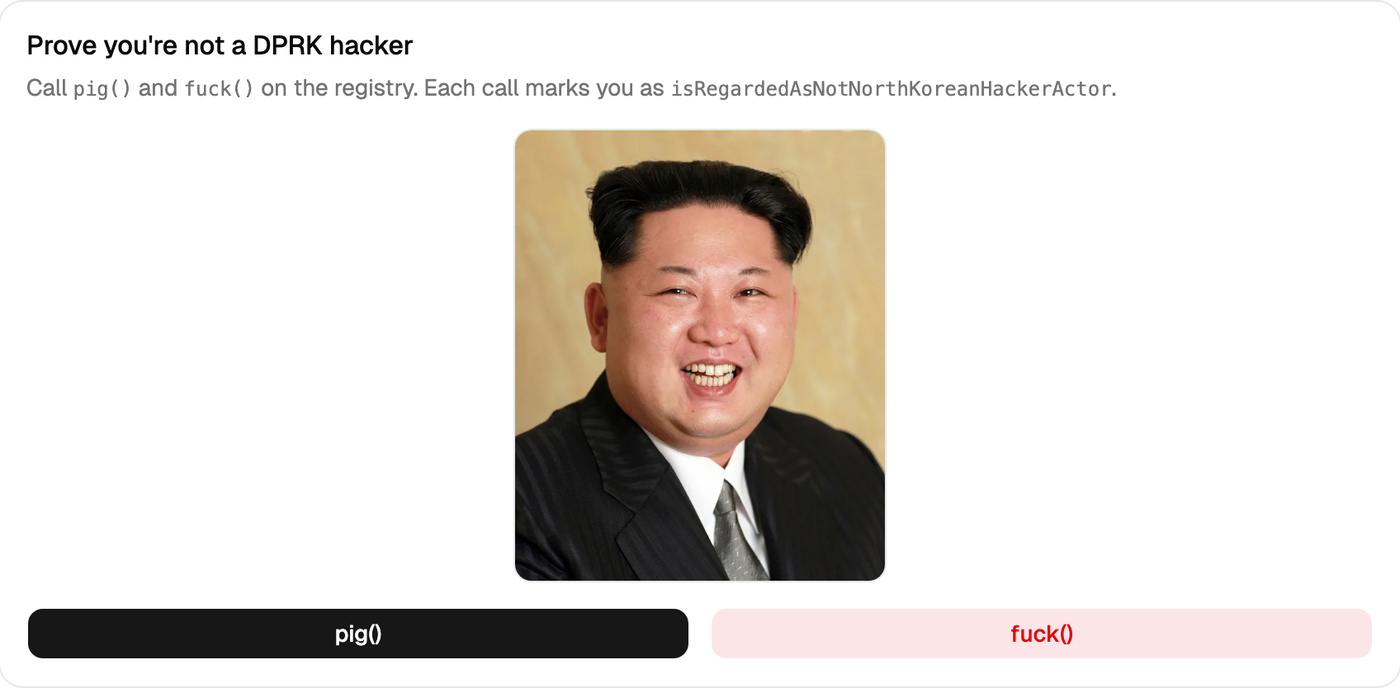
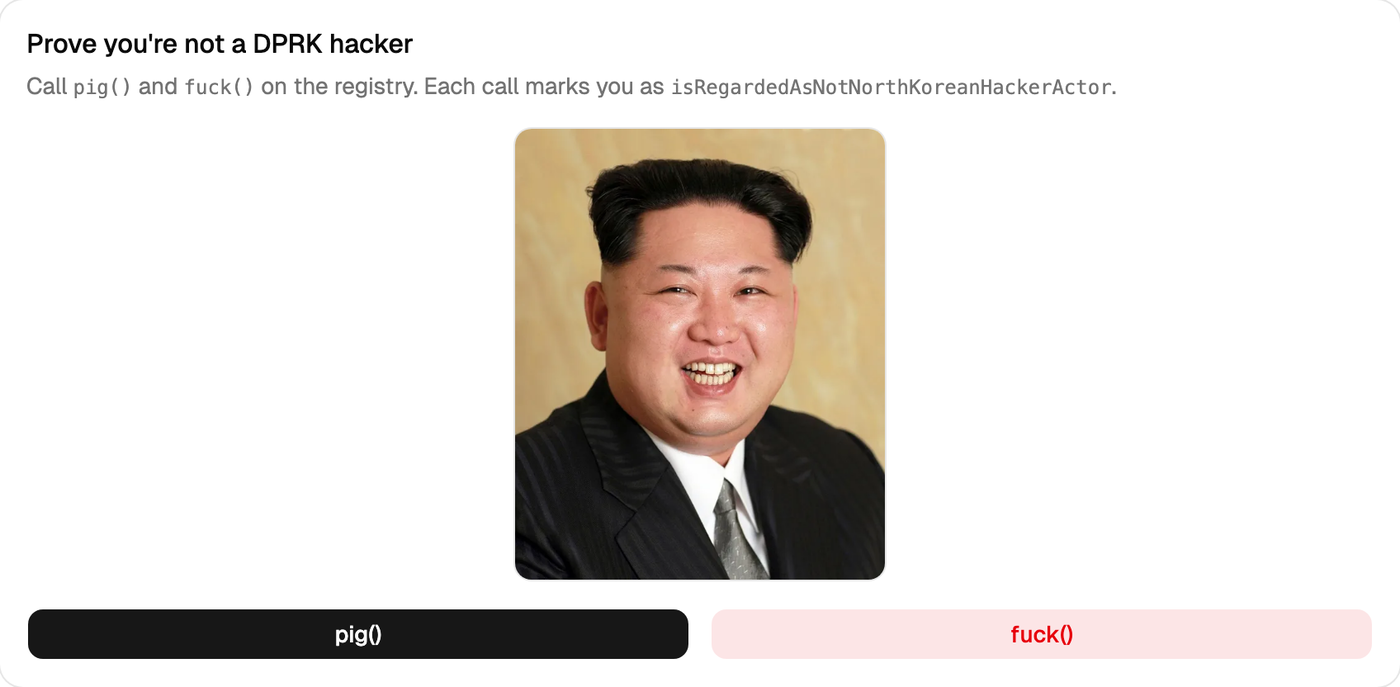
Top bar with repo + contract, supersize the H1
- Add a sub-nav above the hero showing the GitHub repo
  (guzus/fuck-kim-jong-un, inline Octocat SVG) and the contract
  address (linking to Etherscan, with ExternalLink glyph). Both
  lines sit in a single flex row that wraps on narrow screens.
  The two things a visitor most wants to click are now one glance
  away, no scrolling required.
- Supersize the hero typography. The DPRK.FUN wordmark jumps to
  text-5xl / sm:text-6xl / lg:text-7xl with a tighter leading, and
  "Lazarus Checker" becomes a secondary line at text-3xl / 4xl / 5xl
  under it. Description bumped to text-base / lg for matching weight.
  Section padding trimmed py-10/16 → py-6/10 so the top bar + H1
  don't push the main content below the fold.

diff --git a/frontend/src/App.tsx b/frontend/src/App.tsx
@@ -1,3 +1,5 @@
+import { ExternalLink } from "lucide-react";
+
 import { ActionCard } from "@/components/action-card";
 import { ConnectWallet } from "@/components/connect-wallet";
 import { GlobalStats } from "@/components/global-stats";
@@ -7,25 +9,68 @@ import { Toaster } from "@/components/ui/sonner";
 import { Providers } from "@/providers";
 import { KIM_JONG_UN_ADDRESS } from "@/lib/contract";
 
+const REPO_URL = "https://github.com/guzus/fuck-kim-jong-un";
+
+function GithubIcon({ className }: { className?: string }) {
+  return (
+    <svg viewBox="0 0 16 16" className={className} aria-hidden="true" fill="currentColor">
+      <path
+        fillRule="evenodd"
+        clipRule="evenodd"
+        d="M8 0C3.58 0 0 3.58 0 8c0 3.54 2.29 6.53 5.47 7.59.4.07.55-.17.55-.38 0-.19-.01-.82-.01-1.49-2.01.37-2.53-.49-2.69-.94-.09-.23-.48-.94-.82-1.13-.28-.15-.68-.52-.01-.53.63-.01 1.08.58 1.23.82.72 1.21 1.87.87 2.33.66.07-.52.28-.87.51-1.07-1.78-.2-3.64-.89-3.64-3.95 0-.87.31-1.59.82-2.15-.08-.2-.36-1.02.08-2.12 0 0 .67-.21 2.2.82a7.6 7.6 0 0 1 4 0c1.53-1.04 2.2-.82 2.2-.82.44 1.1.16 1.92.08 2.12.51.56.82 1.27.82 2.15 0 3.07-1.87 3.75-3.65 3.95.29.25.54.73.54 1.48 0 1.07-.01 1.93-.01 2.2 0 .21.15.46.55.38A8.01 8.01 0 0 0 16 8c0-4.42-3.58-8-8-8Z"
+      />
+    </svg>
+  );
+}
+
+function TopBar() {
+  return (
+    <div className="flex flex-wrap items-center justify-between gap-3 text-xs text-muted-foreground">
+      <a
+        href={REPO_URL}
+        target="_blank"
+        rel="noreferrer"
+        className="inline-flex items-center gap-2 hover:text-foreground transition-colors"
+      >
+        <GithubIcon className="size-4" />
+        <span className="font-mono">guzus/fuck-kim-jong-un</span>
+      </a>
+      <a
+        href={`https://etherscan.io/address/${KIM_JONG_UN_ADDRESS}`}
+        target="_blank"
+        rel="noreferrer"
+        className="inline-flex items-center gap-2 hover:text-foreground transition-colors"
+      >
+        <span className="hidden sm:inline text-[10px] uppercase tracking-widest">Contract</span>
+        <span className="font-mono">{KIM_JONG_UN_ADDRESS}</span>
+        <ExternalLink className="size-3" />
+      </a>
+    </div>
+  );
+}
+
 function App() {
   return (
     <Providers>
       <main className="min-h-svh w-full bg-background text-foreground">
-        <div className="mx-auto w-full max-w-4xl px-6 py-10 sm:py-16 flex flex-col gap-8">
+        <div className="mx-auto w-full max-w-4xl px-6 py-6 sm:py-10 flex flex-col gap-8">
+          <TopBar />
           <header className="flex flex-col sm:flex-row sm:items-start sm:justify-between gap-4">
-            <div className="flex flex-col gap-2">
-              <h1 className="font-heading text-3xl sm:text-4xl font-semibold tracking-tight">
+            <div className="flex flex-col gap-3">
+              <h1 className="font-heading text-5xl sm:text-6xl lg:text-7xl font-bold tracking-tight leading-[1.05]">
                 <span className="text-red-600 dark:text-red-500">DPRK</span>
                 <span className="text-muted-foreground">.</span>
                 <span className="text-blue-600 dark:text-blue-500">FUN</span>
-                <span className="text-muted-foreground">:</span> Lazarus Checker
+                <span className="block text-foreground text-3xl sm:text-4xl lg:text-5xl font-semibold mt-1">
+                  Lazarus Checker
+                </span>
               </h1>
-              <p className="text-muted-foreground max-w-xl text-sm sm:text-base">
+              <p className="text-muted-foreground max-w-xl text-base sm:text-lg">
                 Publicly declare that you are not a North Korean hacker by calling{" "}
-                <code className="font-mono text-xs">pig()</code> and{" "}
-                <code className="font-mono text-xs">fuck()</code> on the on-chain registry.
+                <code className="font-mono text-sm">pig()</code> and{" "}
+                <code className="font-mono text-sm">fuck()</code> on the on-chain registry.
                 Both calls qualify you for the{" "}
-                <code className="font-mono text-xs">hasPiggedAndFuckedKimJongUn</code> gate used
+                <code className="font-mono text-sm">hasPiggedAndFuckedKimJongUn</code> gate used
                 by the Uniswap v4 eligibility hook.
               </p>
             </div>
